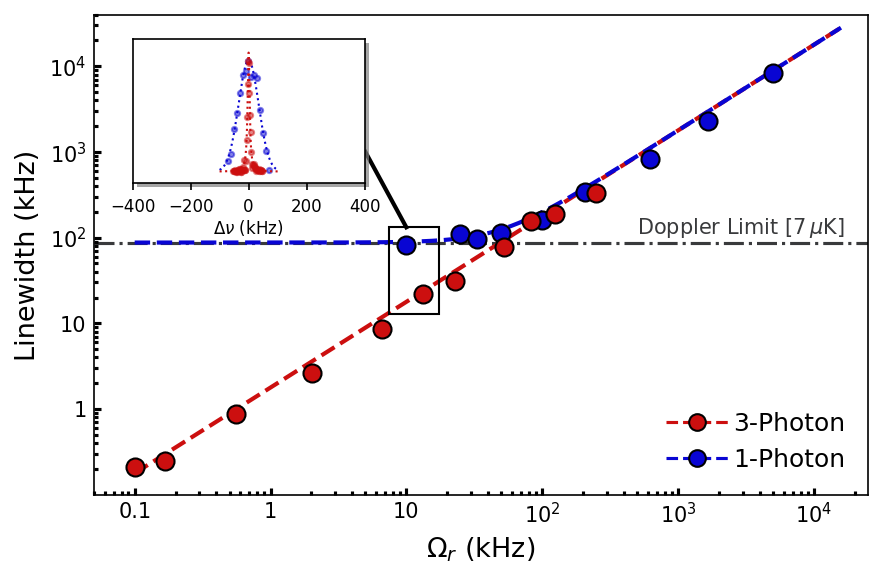
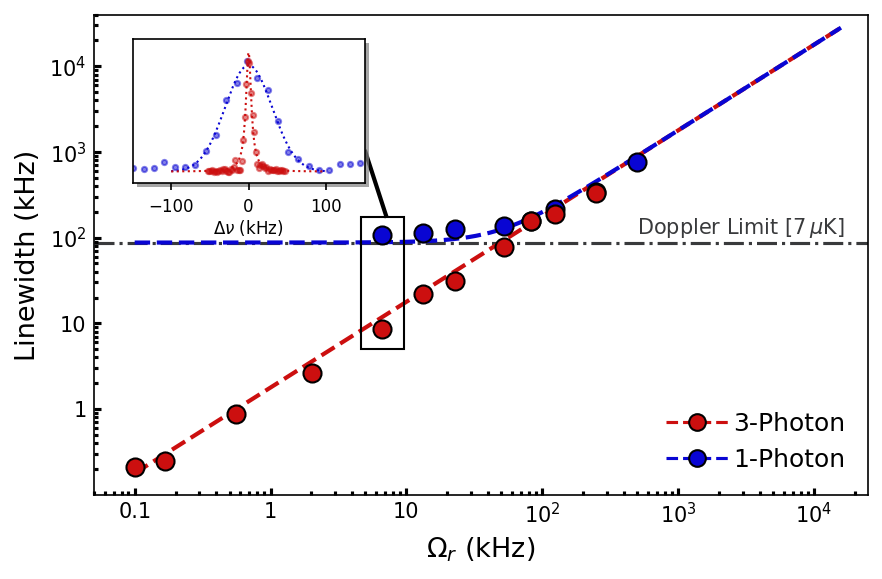
added in exp data

diff --git a/Data/linewidth_data.md b/Data/linewidth_data.md
@@ -1,0 +1,39 @@
+# Linewidth Data Summary
+
+## 689 nm Spectroscopy (Single-Photon Reference)
+Configuration: ND 1.3, 2x1, 2, artig at various pulse times
+
+| Pi Time | RID | Width (kHz) |
+|---------|-----|-------------|
+| 22 us | 75009 | 52.9 ± 0.92 |
+| 38 us | 75013 | 47.9 ± 1.62 |
+| 75 us | 75014 | 45.3 ± 1.51 |
+| 9.5 us | 75021 | 58.5 ± 2.02 |
+| 6 us | 75022 | 66.2 ± 1.4 |
+| 4 us | 75023 | 92.7 ± 3.75 |
+| 3 us | 75025 | — |
+| 2 us | 75029 | 146 ± 7.7 |
+| 1 us | 75033/75034 | 323 ± 20.1 |
+
+Linewidth narrows as pi time increases, reaching a minimum ~45 kHz around 75 us, consistent with Fourier-limited broadening at short pulse times.
+
+---
+
+## 3-Photon Spectroscopy
+Lorentzian gamma (half-width) in kHz:
+
+| Pi Time | RID | Lorentzian γ (kHz) |
+|---------|-----|--------------------|
+| 2 us | 74750 | 328 ± 46 |
+| 4 us | 74759 | 187 ± 22.5 |
+| 6 us | 74764 | 155 ± 16.4 |
+| 9.5 us | 74768 | 77.2 ± 8.6 |
+| 22 us | 74772 | 31.4 ± 1.8 |
+| 38 us | 74776 | 21.8 ± 1.4 |
+| 75 us | 74780 | 8.7 ± 0.37 |
+| 240 us | 74785 | 2.64 ± 0.11 |
+| 900 us | 74788 | 0.874 ± 0.043 |
+| 3 ms | 74794 | 0.247 ± 0.015 |
+| 5 ms | 74798 | 0.209 ± 0.014 |
+
+Linewidth drops from ~328 kHz at 2 us to ~0.21 kHz at 5 ms, showing the three-photon transition is Fourier-limited down to the sub-kHz level at long pulse times. Apparent saturation between 3–5 ms suggests a residual broadening floor around 0.2 kHz.
